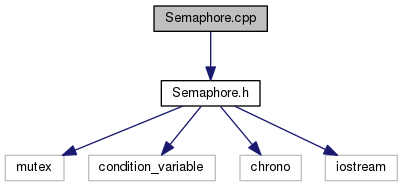
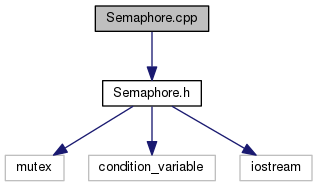
chrono import removed Lab3_2

diff --git a/Lab3_2/html/Semaphore_8h_source.html b/Lab3_2/html/Semaphore_8h_source.html
@@ -84,10 +84,10 @@ var searchBox = new SearchBox("searchBox", "search",false,'Search');
 <div class="title">Semaphore.h</div>  </div>
 </div><!--header-->
 <div class="contents">
-<a href="Semaphore_8h.html">Go to the documentation of this file.</a><div class="fragment"><div class="line"><a name="l00001"></a><span class="lineno">    1</span>&#160;</div><div class="line"><a name="l00009"></a><span class="lineno">    9</span>&#160;<span class="preprocessor">#include &lt;mutex&gt;</span></div><div class="line"><a name="l00010"></a><span class="lineno">   10</span>&#160;<span class="preprocessor">#include &lt;condition_variable&gt;</span></div><div class="line"><a name="l00011"></a><span class="lineno">   11</span>&#160;<span class="preprocessor">#include &lt;chrono&gt;</span></div><div class="line"><a name="l00012"></a><span class="lineno">   12</span>&#160;<span class="preprocessor">#include &lt;iostream&gt;</span> </div><div class="line"><a name="l00020"></a><span class="lineno"><a class="line" href="classSemaphore.html">   20</a></span>&#160;<span class="keyword">class </span><a class="code" href="classSemaphore.html">Semaphore</a></div><div class="line"><a name="l00021"></a><span class="lineno">   21</span>&#160;{</div><div class="line"><a name="l00022"></a><span class="lineno">   22</span>&#160;<span class="keyword">private</span>:</div><div class="line"><a name="l00023"></a><span class="lineno">   23</span>&#160;    <span class="keywordtype">unsigned</span> <span class="keywordtype">int</span> m_uiCount; </div><div class="line"><a name="l00024"></a><span class="lineno">   24</span>&#160;    std::mutex m_mutex;</div><div class="line"><a name="l00025"></a><span class="lineno">   25</span>&#160;    std::condition_variable m_condition;</div><div class="line"><a name="l00026"></a><span class="lineno">   26</span>&#160; </div><div class="line"><a name="l00027"></a><span class="lineno">   27</span>&#160;</div><div class="line"><a name="l00028"></a><span class="lineno">   28</span>&#160;<span class="keyword">public</span>:</div><div class="line"><a name="l00032"></a><span class="lineno"><a class="line" href="classSemaphore.html#aed0c7b79cde302307df0f368739fe569">   32</a></span>&#160;    <a class="code" href="classSemaphore.html#aed0c7b79cde302307df0f368739fe569">Semaphore</a>(<span class="keywordtype">unsigned</span> <span class="keywordtype">int</span> uiCount=1) : m_uiCount(uiCount) { };</div><div class="line"><a name="l00033"></a><span class="lineno">   33</span>&#160;</div><div class="line"><a name="l00034"></a><span class="lineno">   34</span>&#160;    <span class="keywordtype">void</span> <a class="code" href="classSemaphore.html#a72aabebf026e3a8b1f3e4d0fa8ee1eda">Wait</a>();</div><div class="line"><a name="l00035"></a><span class="lineno">   35</span>&#160;    <span class="keywordtype">void</span> <a class="code" href="classSemaphore.html#a86f92f738b4486439b296d8e235895f2">Signal</a>();</div><div class="line"><a name="l00036"></a><span class="lineno">   36</span>&#160;</div><div class="line"><a name="l00037"></a><span class="lineno">   37</span>&#160;};</div><div class="ttc" id="classSemaphore_html_a72aabebf026e3a8b1f3e4d0fa8ee1eda"><div class="ttname"><a href="classSemaphore.html#a72aabebf026e3a8b1f3e4d0fa8ee1eda">Semaphore::Wait</a></div><div class="ttdeci">void Wait()</div><div class="ttdoc">Description of the void Wait function. </div><div class="ttdef"><b>Definition:</b> Semaphore.cpp:15</div></div>
-<div class="ttc" id="classSemaphore_html"><div class="ttname"><a href="classSemaphore.html">Semaphore</a></div><div class="ttdoc">Semaphore.h declaration. </div><div class="ttdef"><b>Definition:</b> Semaphore.h:20</div></div>
+<a href="Semaphore_8h.html">Go to the documentation of this file.</a><div class="fragment"><div class="line"><a name="l00001"></a><span class="lineno">    1</span>&#160;</div><div class="line"><a name="l00009"></a><span class="lineno">    9</span>&#160;<span class="preprocessor">#include &lt;mutex&gt;</span></div><div class="line"><a name="l00010"></a><span class="lineno">   10</span>&#160;<span class="preprocessor">#include &lt;condition_variable&gt;</span></div><div class="line"><a name="l00011"></a><span class="lineno">   11</span>&#160;<span class="preprocessor">#include &lt;iostream&gt;</span> </div><div class="line"><a name="l00019"></a><span class="lineno"><a class="line" href="classSemaphore.html">   19</a></span>&#160;<span class="keyword">class </span><a class="code" href="classSemaphore.html">Semaphore</a></div><div class="line"><a name="l00020"></a><span class="lineno">   20</span>&#160;{</div><div class="line"><a name="l00021"></a><span class="lineno">   21</span>&#160;<span class="keyword">private</span>:</div><div class="line"><a name="l00022"></a><span class="lineno">   22</span>&#160;    <span class="keywordtype">unsigned</span> <span class="keywordtype">int</span> m_uiCount; </div><div class="line"><a name="l00023"></a><span class="lineno">   23</span>&#160;    std::mutex m_mutex;</div><div class="line"><a name="l00024"></a><span class="lineno">   24</span>&#160;    std::condition_variable m_condition;</div><div class="line"><a name="l00025"></a><span class="lineno">   25</span>&#160; </div><div class="line"><a name="l00026"></a><span class="lineno">   26</span>&#160;</div><div class="line"><a name="l00027"></a><span class="lineno">   27</span>&#160;<span class="keyword">public</span>:</div><div class="line"><a name="l00031"></a><span class="lineno"><a class="line" href="classSemaphore.html#aed0c7b79cde302307df0f368739fe569">   31</a></span>&#160;    <a class="code" href="classSemaphore.html#aed0c7b79cde302307df0f368739fe569">Semaphore</a>(<span class="keywordtype">unsigned</span> <span class="keywordtype">int</span> uiCount=1) : m_uiCount(uiCount) { };</div><div class="line"><a name="l00032"></a><span class="lineno">   32</span>&#160;</div><div class="line"><a name="l00033"></a><span class="lineno">   33</span>&#160;    <span class="keywordtype">void</span> <a class="code" href="classSemaphore.html#a72aabebf026e3a8b1f3e4d0fa8ee1eda">Wait</a>();</div><div class="line"><a name="l00034"></a><span class="lineno">   34</span>&#160;    <span class="keywordtype">void</span> <a class="code" href="classSemaphore.html#a86f92f738b4486439b296d8e235895f2">Signal</a>();</div><div class="line"><a name="l00035"></a><span class="lineno">   35</span>&#160;</div><div class="line"><a name="l00036"></a><span class="lineno">   36</span>&#160;};</div><div class="ttc" id="classSemaphore_html_a72aabebf026e3a8b1f3e4d0fa8ee1eda"><div class="ttname"><a href="classSemaphore.html#a72aabebf026e3a8b1f3e4d0fa8ee1eda">Semaphore::Wait</a></div><div class="ttdeci">void Wait()</div><div class="ttdoc">Description of the void Wait function. </div><div class="ttdef"><b>Definition:</b> Semaphore.cpp:15</div></div>
+<div class="ttc" id="classSemaphore_html"><div class="ttname"><a href="classSemaphore.html">Semaphore</a></div><div class="ttdoc">Semaphore.h declaration. </div><div class="ttdef"><b>Definition:</b> Semaphore.h:19</div></div>
 <div class="ttc" id="classSemaphore_html_a86f92f738b4486439b296d8e235895f2"><div class="ttname"><a href="classSemaphore.html#a86f92f738b4486439b296d8e235895f2">Semaphore::Signal</a></div><div class="ttdeci">void Signal()</div><div class="ttdoc">Description of the void Signal function. </div><div class="ttdef"><b>Definition:</b> Semaphore.cpp:30</div></div>
-<div class="ttc" id="classSemaphore_html_aed0c7b79cde302307df0f368739fe569"><div class="ttname"><a href="classSemaphore.html#aed0c7b79cde302307df0f368739fe569">Semaphore::Semaphore</a></div><div class="ttdeci">Semaphore(unsigned int uiCount=1)</div><div class="ttdoc">Constructor &amp; Deconstructor. </div><div class="ttdef"><b>Definition:</b> Semaphore.h:32</div></div>
+<div class="ttc" id="classSemaphore_html_aed0c7b79cde302307df0f368739fe569"><div class="ttname"><a href="classSemaphore.html#aed0c7b79cde302307df0f368739fe569">Semaphore::Semaphore</a></div><div class="ttdeci">Semaphore(unsigned int uiCount=1)</div><div class="ttdoc">Constructor &amp; Deconstructor. </div><div class="ttdef"><b>Definition:</b> Semaphore.h:31</div></div>
 </div><!-- fragment --></div><!-- contents -->
 <!-- start footer part -->
 <hr class="footer"/><address class="footer"><small>

diff --git a/Lab3_2/html/signal_8cpp.html b/Lab3_2/html/signal_8cpp.html
@@ -89,13 +89,12 @@ var searchBox = new SearchBox("searchBox", "search",false,'Search');
 <div class="textblock"><code>#include &quot;<a class="el" href="Semaphore_8h_source.html">Semaphore.h</a>&quot;</code><br />
 <code>#include &lt;iostream&gt;</code><br />
 <code>#include &lt;thread&gt;</code><br />
-<code>#include &lt;chrono&gt;</code><br />
 </div><div class="textblock"><div class="dynheader">
 Include dependency graph for signal.cpp:</div>
 <div class="dyncontent">
 <div class="center"><img src="signal_8cpp__incl.png" border="0" usemap="#signal_8cpp" alt=""/></div>
 <map name="signal_8cpp" id="signal_8cpp">
-<area shape="rect" id="node2" href="Semaphore_8h.html" title="Semaphore.h" alt="" coords="155,80,253,107"/>
+<area shape="rect" id="node2" href="Semaphore_8h.html" title="Semaphore.h" alt="" coords="112,80,211,107"/>
 </map>
 </div>
 </div><table class="memberdecls">

diff --git a/Lab3_2/html/Semaphore_8h.html b/Lab3_2/html/Semaphore_8h.html
@@ -88,12 +88,13 @@ var searchBox = new SearchBox("searchBox", "search",false,'Search');
 <div class="contents">
 <div class="textblock"><code>#include &lt;mutex&gt;</code><br />
 <code>#include &lt;condition_variable&gt;</code><br />
-<code>#include &lt;chrono&gt;</code><br />
 <code>#include &lt;iostream&gt;</code><br />
 </div><div class="textblock"><div class="dynheader">
 Include dependency graph for Semaphore.h:</div>
 <div class="dyncontent">
 <div class="center"><img src="Semaphore_8h__incl.png" border="0" usemap="#Semaphore_8h" alt=""/></div>
+<map name="Semaphore_8h" id="Semaphore_8h">
+</map>
 </div>
 </div><div class="textblock"><div class="dynheader">
 This graph shows which files directly or indirectly include this file:</div>

diff --git a/Lab3_2/html/Semaphore_8cpp.html b/Lab3_2/html/Semaphore_8cpp.html
@@ -90,7 +90,7 @@ Include dependency graph for Semaphore.cpp:</div>
 <div class="dyncontent">
 <div class="center"><img src="Semaphore_8cpp__incl.png" border="0" usemap="#Semaphore_8cpp" alt=""/></div>
 <map name="Semaphore_8cpp" id="Semaphore_8cpp">
-<area shape="rect" id="node2" href="Semaphore_8h.html" title="Semaphore.h" alt="" coords="161,80,260,107"/>
+<area shape="rect" id="node2" href="Semaphore_8h.html" title="Semaphore.h" alt="" coords="103,80,201,107"/>
 </map>
 </div>
 </div></div><!-- contents -->

diff --git a/Lab3_2/Semaphore.h b/Lab3_2/Semaphore.h
@@ -8,7 +8,6 @@
 
 #include <mutex>
 #include <condition_variable>
-#include <chrono>
 #include <iostream> 
 /*!
  * \brief Semaphore.h declaration

diff --git a/Lab3_2/signal.cpp b/Lab3_2/signal.cpp
@@ -25,7 +25,6 @@
 #include "Semaphore.h"
 #include <iostream>
 #include <thread>
-#include <chrono>
 
 
 
